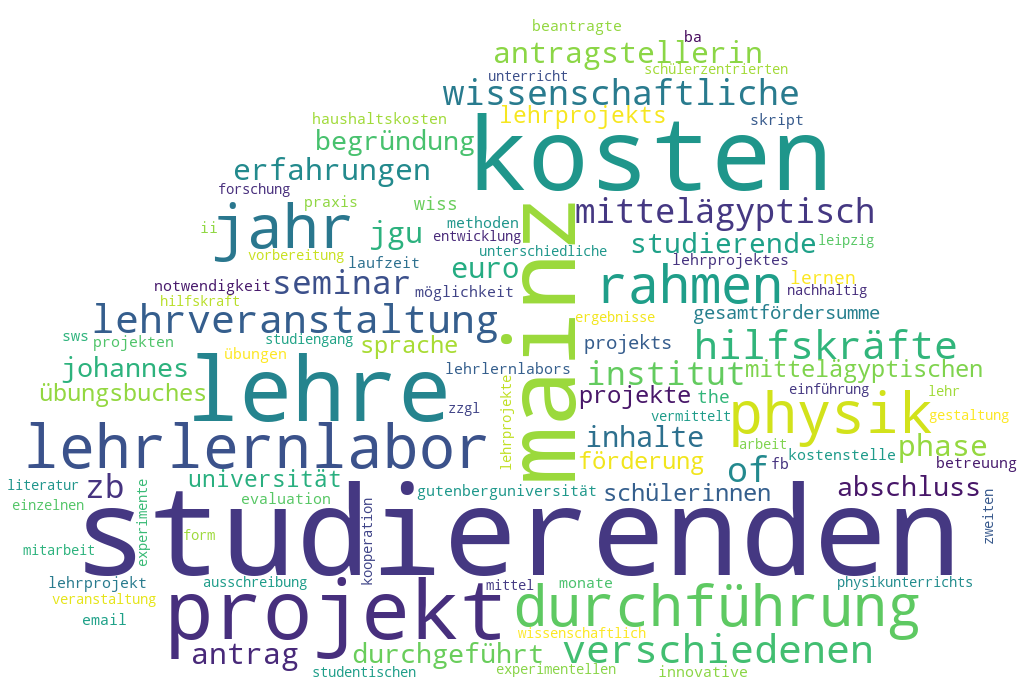
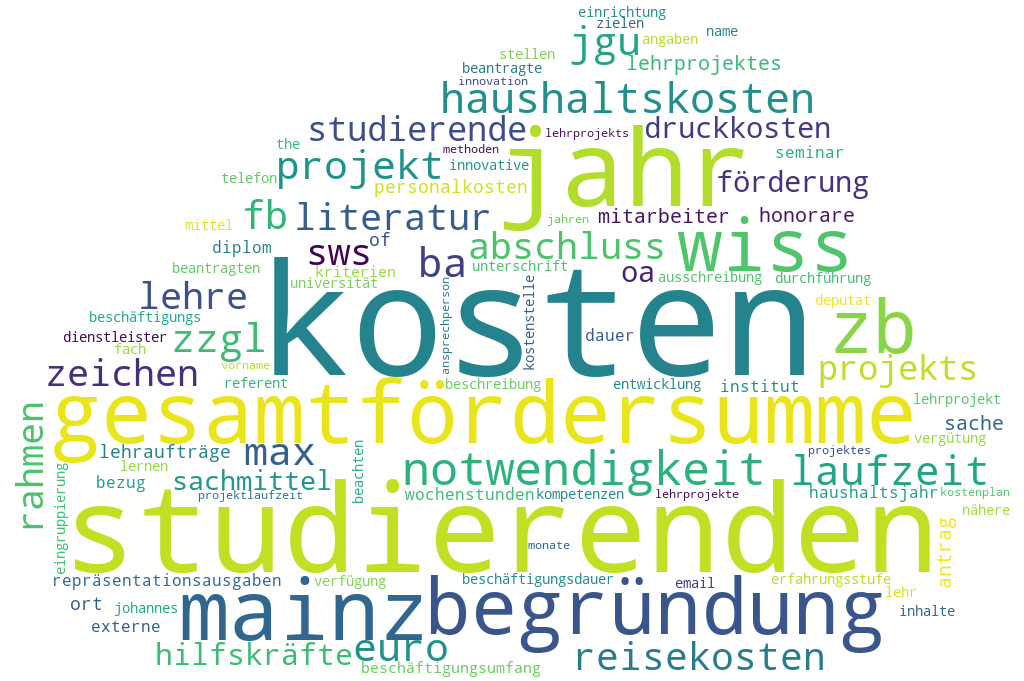
Bump to v.0.0.2.1: Wordcloud frequency normalization added

diff --git a/lib/wordcloud_helper.py b/lib/wordcloud_helper.py
@@ -27,7 +27,7 @@ def createWordcloud(filename, maskfile, coll, filter='', content_field='content'
     stopwords = {line.strip() for line in list(open(os.path.join('.','lib','stopwords_german.txt'), encoding='utf-8')) if not comment_re.match(line)}
     
     # Retrieve and count
-    fdist = nltk.FreqDist()
+    freqs = dict()
     for doc in coll.find(filter):
         # Get a word list from the content
         text = stripChars(doc[content_field], replacewith=' ')
@@ -39,7 +39,15 @@ def createWordcloud(filename, maskfile, coll, filter='', content_field='content'
         words = [word for word in wordmap if word is not None]
         
         # Update frequencies
-        fdist.update(words)
+        fdist = nltk.FreqDist(words)
+        
+        # Normalize frequencies so that each document only contributes a
+        # cumulative frequency of 1.0.
+        for word in fdist:
+            if word in freqs:
+                freqs[word]+= fdist.freq(word)
+            else:
+                freqs[word] = fdist.freq(word)
 
     mask = np.array(Image.open(maskfile))
     wc = wordcloud.WordCloud(
@@ -47,5 +55,5 @@ def createWordcloud(filename, maskfile, coll, filter='', content_field='content'
             mask=mask,
             max_words=100,
             )
-    wc.generate_from_frequencies(dict(fdist))
+    wc.generate_from_frequencies(freqs)
     wc.to_file(filename)

diff --git a/__init__.py b/__init__.py
@@ -1,3 +1,3 @@
 # -*- coding: utf-8 -*-
 
-__version__ = '0.0.2.0'
+__version__ = '0.0.3.1'
